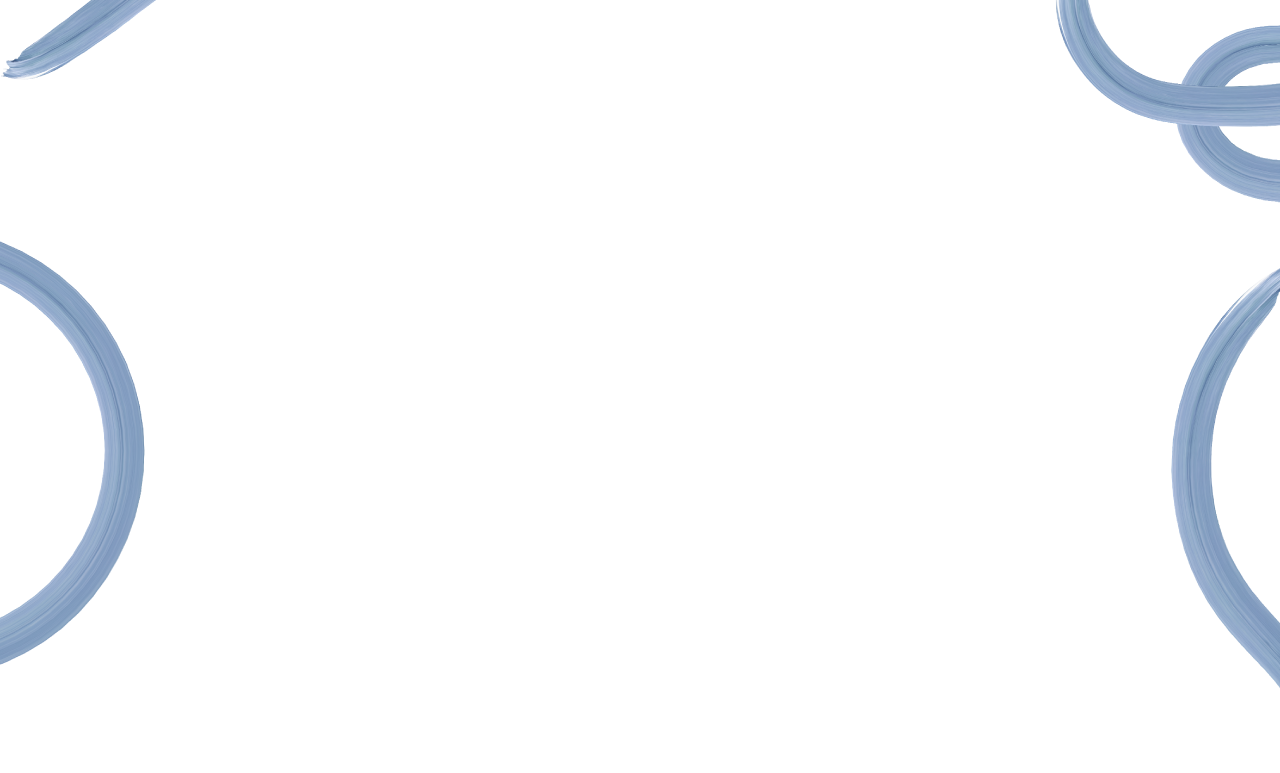
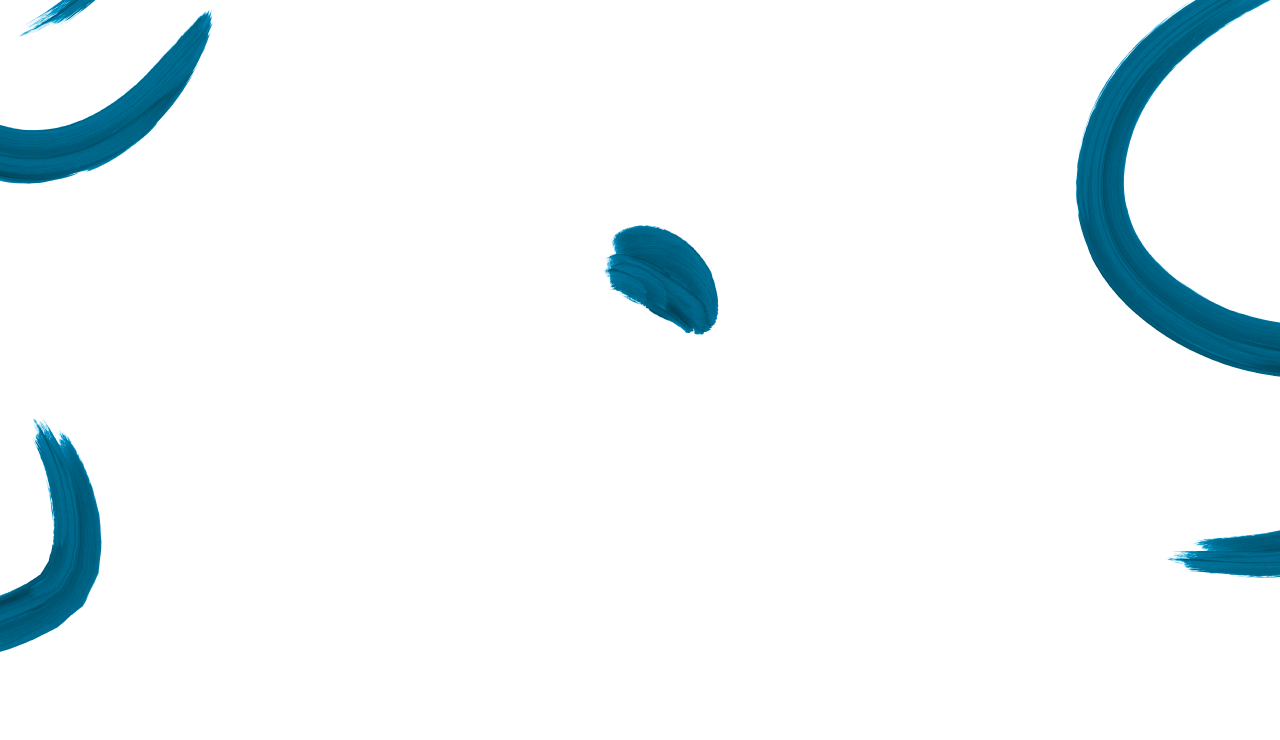
paint pattern edit

diff --git a/index.html b/index.html
@@ -283,7 +283,7 @@
 
 
 
- <img src="assets/images/home_paint_pattern.svg" /> 
+ <img src="assets/images/home_paint_pattern_2.png" /> 
 
 
 
